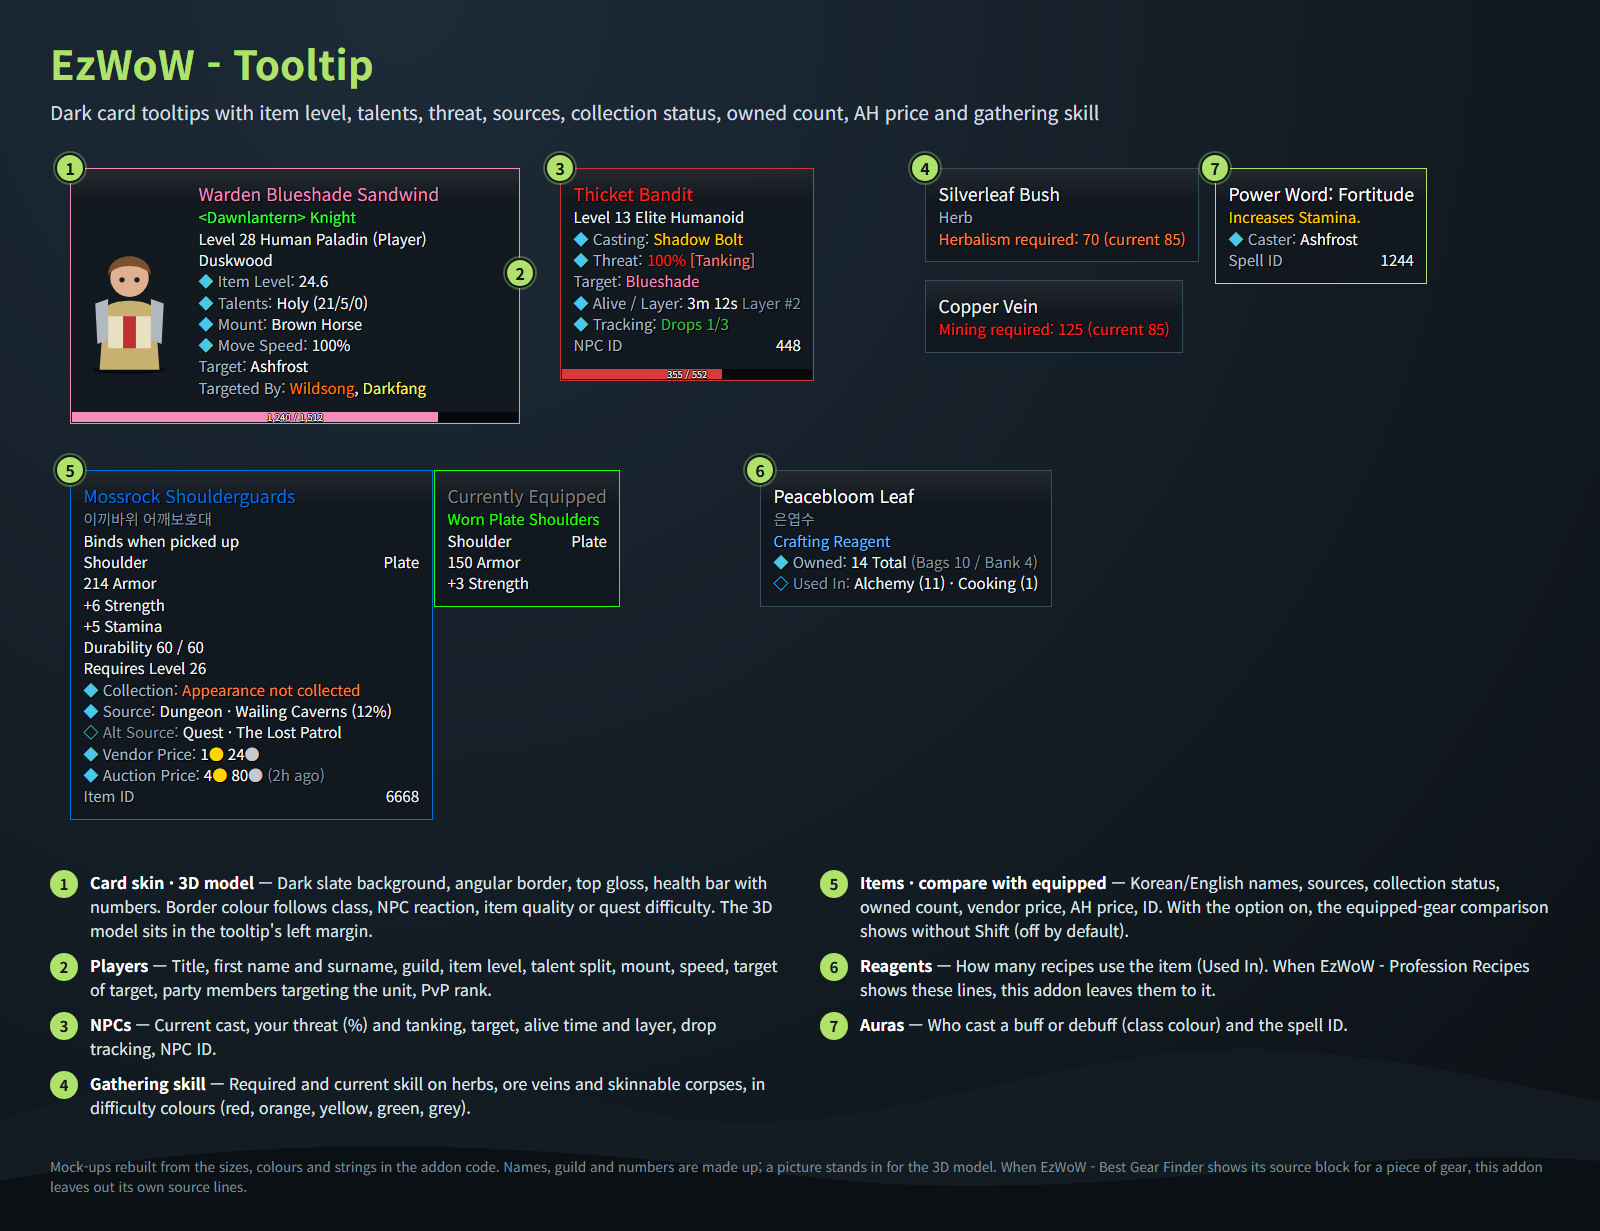
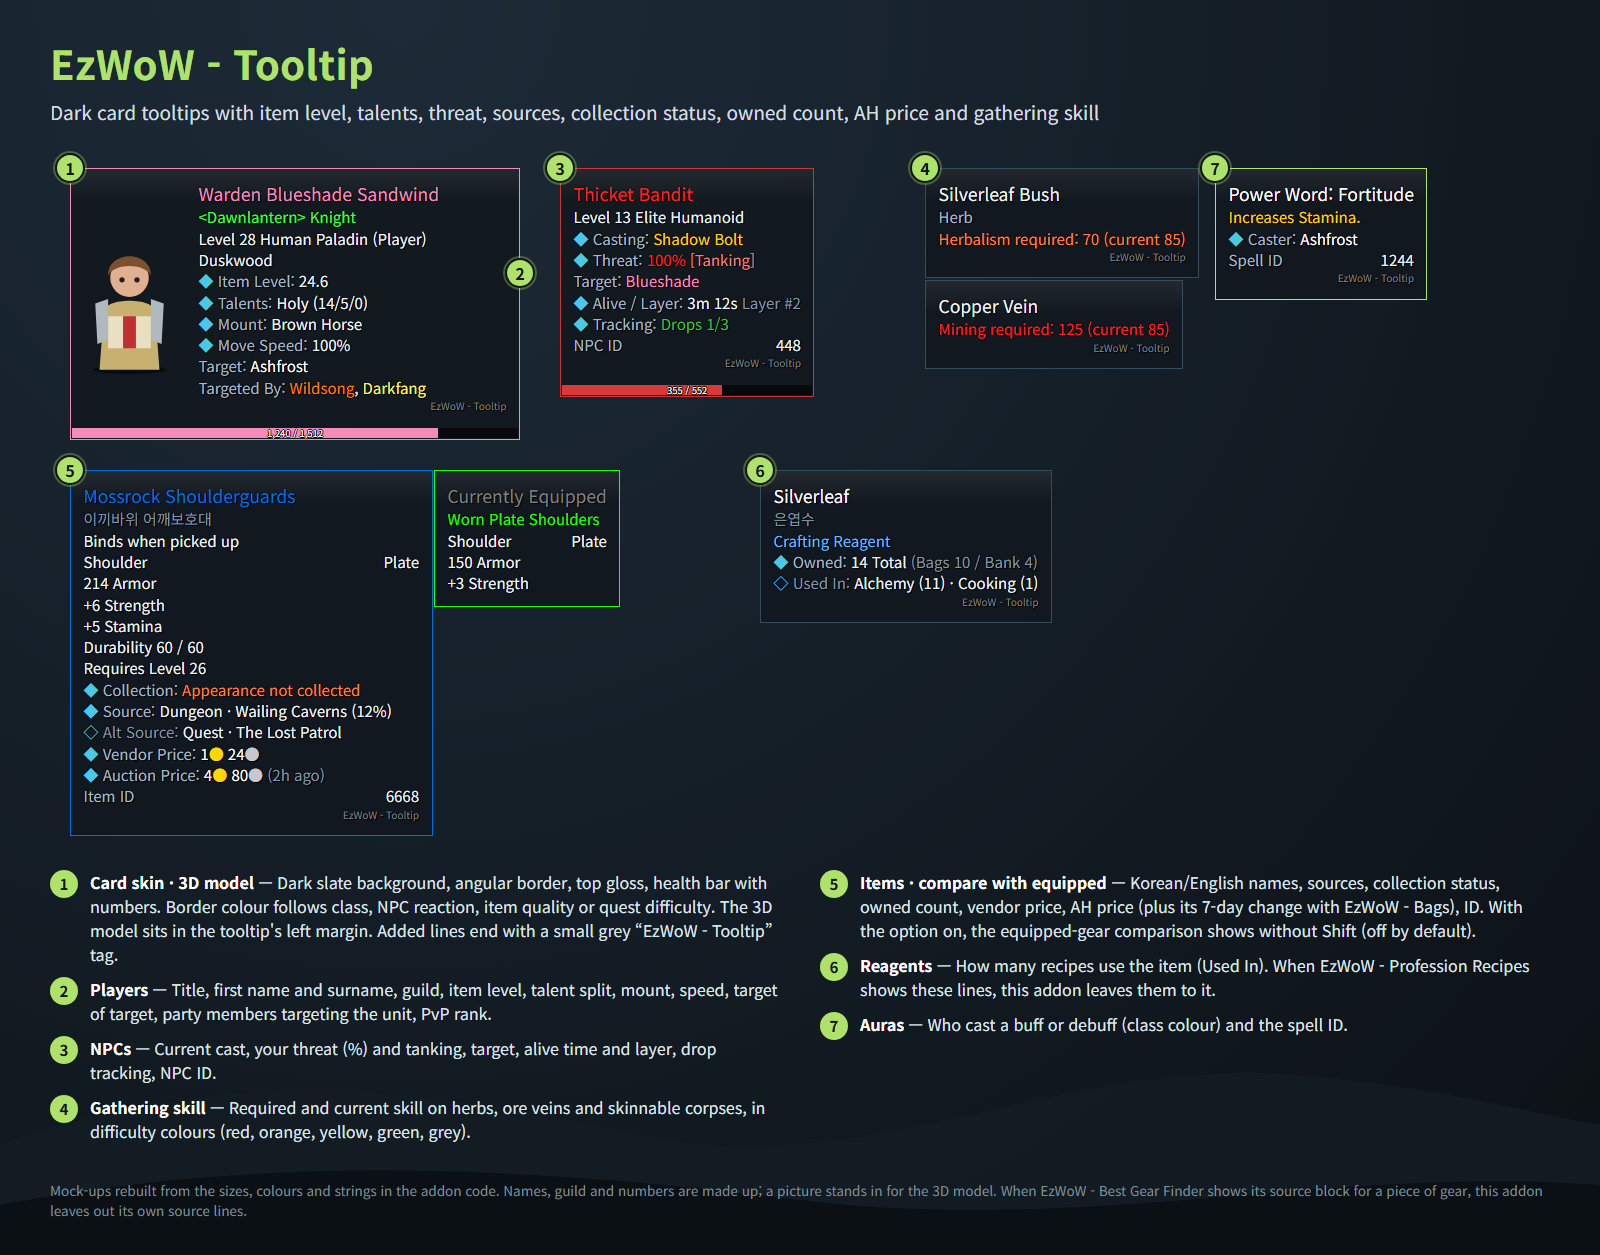
Update README, CurseForge description and example images

diff --git a/scripts/make_readme_images.py b/scripts/make_readme_images.py
@@ -284,7 +284,7 @@ class Window:
 
 
 def tooltip(x, y, lines, border="#344c5b", width=None, pad=10, bg="rgba(18,24,31,.95)", gloss=True, bar=None, font=12,
-            title_size=14, left_pad=0, z=30, extra=""):
+            title_size=14, left_pad=0, z=30, extra="", attrib=True):
     """A tooltip card at page px (x, y). lines: list of str | (left, right) | ("gap",); first line is the title.
     Strings are already HTML. bar: (fraction, colour, label) drawn along the bottom."""
     rows = []
@@ -296,6 +296,8 @@ def tooltip(x, y, lines, border="#344c5b", width=None, pad=10, bg="rgba(18,24,31
             rows.append(f'<div class="row" style="font-size:{px(fs)};line-height:1.42"><span>{ln[0]}</span><span>{ln[1]}</span></div>')
         else:
             rows.append(f'<div style="font-size:{px(fs)};line-height:1.42;white-space:nowrap">{ln}</div>')
+    if attrib:   # small grey right-aligned name line that ends every block of lines the addon adds
+        rows.append(f'<div style="font-size:{px(8)};line-height:1.6;text-align:right;color:#808080">{esc(TITLE)}</div>')
     w = f"width:{px(width)};" if width else ""
     glo = (f'<div class="abs" style="left:0;right:0;top:0;height:{px(26)};background:linear-gradient(to bottom,rgba(255,255,255,.07),'
            f'rgba(255,255,255,0))"></div>') if gloss else ""
@@ -526,7 +528,7 @@ T = {
     "ko": {
         "lead": "다크 카드 스킨 툴팁에 아이템 레벨 · 특성 · 위협 수준 · 획득처 · 수집 상태 · 보유 수량 · 경매장 시세 · 채집 숙련도를 함께 표시",
         "pName": "블루셰이드", "pSurname": "모래바람", "pTitle": "수호자", "pGuild": "&lt;새벽의 등불&gt; 기사단원",
-        "pLine": "28 레벨 인간 성기사 (플레이어)", "zone": "그늘숲", "talent": "신성 (21/5/0)", "mount": "갈색 말",
+        "pLine": "28 레벨 인간 성기사 (플레이어)", "zone": "그늘숲", "talent": "신성 (14/5/0)", "mount": "갈색 말",
         "target": "대상", "tName": "잿빛서리", "by": "들꽃노래", "by2": "검은송곳",
         "npc": "덤불숲 강도", "npcLine": "13 레벨 정예 인간형", "cast": "어둠의 화살", "npcTarget": "블루셰이드",
         "alive": "3분 12초", "npcId": "NPC ID",
@@ -535,15 +537,15 @@ T = {
         "armor": "방어구 214", "stats": ["+6 힘", "+5 체력"], "dur": "내구도 60 / 60", "req": "최소 요구 레벨: 26",
         "src1": "던전 · 통곡의 동굴 (12%)", "src2": "퀘스트 · 사라진 순찰대", "coll": "형상 미수집",
         "eq": "현재 착용 중", "eqItem": "낡은 판금 어깨보호구", "eqArmor": "방어구 150", "eqStat": "+3 힘", "itemId": "아이템 ID",
-        "reag": "은엽수", "reagEn": "Peacebloom Leaf", "reagType": "제작 재료",
+        "reag": "은엽수", "reagEn": "Silverleaf", "reagType": "제작 재료",
         "usedIn": "연금술 (11개) · 요리 (1개)", "aura": "신의 권능: 인내", "auraDesc": "체력이 증가합니다.", "spellId": "주문 ID",
         "auraCaster": "잿빛서리",
         "notes": [
-            ("카드 스킨 · 3D 모델", "다크 슬레이트 배경, 직각 테두리, 위쪽 광택, 아래쪽 체력 바(수치). 테두리 색은 직업 · NPC 우호도 · 아이템 품질 · 퀘스트 난이도. 3D 모델은 툴팁 왼쪽 여백에 표시."),
+            ("카드 스킨 · 3D 모델", "다크 슬레이트 배경, 직각 테두리, 위쪽 광택, 아래쪽 체력 바(수치). 테두리 색은 직업 · NPC 우호도 · 아이템 품질 · 퀘스트 난이도. 3D 모델은 툴팁 왼쪽 여백에 표시. 덧붙인 줄 끝에는 작은 회색 “EzWoW - Tooltip” 표시."),
             ("플레이어", "칭호 · 이름 성 · 길드, 아이템 레벨, 특성 배분, 탈것, 이동 속도, 대상의 대상, 이 대상을 선택한 파티원, PvP 계급."),
             ("NPC", "지금 시전 중인 주문, 내 위협 수준(%)·탱킹, 대상, 생존 시간 · 위상, 드랍 수집 추적, NPC ID."),
             ("채집 숙련도", "약초 · 광맥 · 가죽 벗길 수 있는 시체에 필요한 숙련도와 내 숙련도를 난이도 색(빨강 · 주황 · 노랑 · 초록 · 회색)으로."),
-            ("아이템 · 착용 장비 비교", "한 · 영 이름, 획득처, 수집 상태, 보유 수량, 상점 판매가, 경매장 시세, ID. 옵션을 켜면 Shift 없이 착용 장비 비교 툴팁이 함께 뜹니다(기본 꺼짐)."),
+            ("아이템 · 착용 장비 비교", "한 · 영 이름, 획득처, 수집 상태, 보유 수량, 상점 판매가, 경매장 시세(EzWoW - Bags가 있으면 7일 대비 등락), ID. 옵션을 켜면 Shift 없이 착용 장비 비교 툴팁이 함께 뜹니다(기본 꺼짐)."),
             ("재료", "이 재료를 쓰는 제조법 수(재료 사용처). EzWoW - Profession Recipes가 이 줄을 보여 주면 그쪽에 맡기고 겹쳐 쓰지 않습니다."),
             ("오라", "버프 · 디버프를 건 사람(직업 색)과 주문 ID."),
         ],
@@ -563,7 +565,7 @@ T = {
     "en": {
         "lead": "Dark card tooltips with item level, talents, threat, sources, collection status, owned count, AH price and gathering skill",
         "pName": "Blueshade", "pSurname": "Sandwind", "pTitle": "Warden", "pGuild": "&lt;Dawnlantern&gt; Knight",
-        "pLine": "Level 28 Human Paladin (Player)", "zone": "Duskwood", "talent": "Holy (21/5/0)", "mount": "Brown Horse",
+        "pLine": "Level 28 Human Paladin (Player)", "zone": "Duskwood", "talent": "Holy (14/5/0)", "mount": "Brown Horse",
         "target": "Target", "tName": "Ashfrost", "by": "Wildsong", "by2": "Darkfang",
         "npc": "Thicket Bandit", "npcLine": "Level 13 Elite Humanoid", "cast": "Shadow Bolt", "npcTarget": "Blueshade",
         "alive": "3m 12s", "npcId": "NPC ID",
@@ -572,15 +574,15 @@ T = {
         "armor": "214 Armor", "stats": ["+6 Strength", "+5 Stamina"], "dur": "Durability 60 / 60", "req": "Requires Level 26",
         "src1": "Dungeon · Wailing Caverns (12%)", "src2": "Quest · The Lost Patrol", "coll": "Appearance not collected",
         "eq": "Currently Equipped", "eqItem": "Worn Plate Shoulders", "eqArmor": "150 Armor", "eqStat": "+3 Strength", "itemId": "Item ID",
-        "reag": "Peacebloom Leaf", "reagEn": "은엽수", "reagType": "Crafting Reagent",
+        "reag": "Silverleaf", "reagEn": "은엽수", "reagType": "Crafting Reagent",
         "usedIn": "Alchemy (11) · Cooking (1)", "aura": "Power Word: Fortitude", "auraDesc": "Increases Stamina.", "spellId": "Spell ID",
         "auraCaster": "Ashfrost",
         "notes": [
-            ("Card skin · 3D model", "Dark slate background, angular border, top gloss, health bar with numbers. Border colour follows class, NPC reaction, item quality or quest difficulty. The 3D model sits in the tooltip's left margin."),
+            ("Card skin · 3D model", "Dark slate background, angular border, top gloss, health bar with numbers. Border colour follows class, NPC reaction, item quality or quest difficulty. The 3D model sits in the tooltip's left margin. Added lines end with a small grey “EzWoW - Tooltip” tag."),
             ("Players", "Title, first name and surname, guild, item level, talent split, mount, speed, target of target, party members targeting the unit, PvP rank."),
             ("NPCs", "Current cast, your threat (%) and tanking, target, alive time and layer, drop tracking, NPC ID."),
             ("Gathering skill", "Required and current skill on herbs, ore veins and skinnable corpses, in difficulty colours (red, orange, yellow, green, grey)."),
-            ("Items · compare with equipped", "Korean/English names, sources, collection status, owned count, vendor price, AH price, ID. With the option on, the equipped-gear comparison shows without Shift (off by default)."),
+            ("Items · compare with equipped", "Korean/English names, sources, collection status, owned count, vendor price, AH price (plus its 7-day change with EzWoW - Bags), ID. With the option on, the equipped-gear comparison shows without Shift (off by default)."),
             ("Reagents", "How many recipes use the item (Used In). When EzWoW - Profession Recipes shows these lines, this addon leaves them to it."),
             ("Auras", "Who cast a buff or debuff (class colour) and the spell ID."),
         ],
@@ -693,7 +695,7 @@ def ui_page(lang, ctx):
     elines = [f'<span style="color:#808080">{esc(t["eq"])}</span>', f'<span style="color:{QUALITY[2]}">{esc(t["eqItem"])}</span>',
               (f'<span style="color:{W}">{esc(t["slot"][0])}</span>', f'<span style="color:{W}">{esc(t["slot"][1])}</span>'),
               f'<span style="color:{W}">{esc(t["eqArmor"])}</span>', f'<span style="color:{W}">{esc(t["eqStat"])}</span>']
-    parts.append(tooltip(ix + iw * S + 2, iy, elines, border=QUALITY[2]))
+    parts.append(tooltip(ix + iw * S + 2, iy, elines, border=QUALITY[2], attrib=False))
 
     # 6 reagent with "used in"
     rx, ry = 760, 470

diff --git a/README.md b/README.md
@@ -35,11 +35,11 @@ WoW Forever (`Interface: 16001`) · `/ezt`
 
 | 번호 | 툴팁 | 내용 |
 |---|---|---|
-| ① | 카드 스킨 · 3D 모델 | 다크 슬레이트 배경(`#12181F`), 직각/기본 테두리, 위쪽 광택, 부드럽게 사라지기, 아래쪽 체력 바(수치 표시). 테두리 색은 **플레이어 직업 / NPC 우호도 / 아이템 품질 / 퀘스트 난이도**를 따릅니다. 3D 캐릭터 · 몬스터 모델은 툴팁 왼쪽 여백에 표시합니다. |
+| ① | 카드 스킨 · 3D 모델 | 다크 슬레이트 배경(`#12181F`), 직각/기본 테두리, 위쪽 광택, 부드럽게 사라지기, 아래쪽 체력 바(수치 표시). 테두리 색은 **플레이어 직업 / NPC 우호도 / 아이템 품질 / 퀘스트 난이도**를 따릅니다. 3D 캐릭터 · 몬스터 모델은 툴팁 왼쪽 여백에 표시합니다. 이 애드온이 덧붙인 줄 끝에는 작은 회색 글자로 “EzWoW - Tooltip”이 오른쪽에 붙어, 어느 줄이 이 애드온의 것인지 알 수 있습니다. |
 | ② | 플레이어 | 칭호 · **이름 성** · 길드(계급) · 레벨 · 종족 · 직업 · 지역, **평균 아이템 레벨**, **특성 배분**, 탈것, 이동 속도(%), **대상의 대상**, **이 대상을 선택한 파티원**, PvP 계급. 아이템 레벨과 특성은 조사 후 캐시해 둡니다. |
 | ③ | NPC | 레벨 · 정예 · 종류, **지금 시전 중인 주문**, **내 위협 수준(%) · 탱킹 여부**, 대상, 생존 시간 · 위상, 드랍 수집 추적, NPC ID. |
 | ④ | 채집 숙련도 | 약초 · 광맥 · 가죽을 벗길 수 있는 시체 툴팁에 **필요한 숙련도와 내 숙련도**를 난이도 색(빨강 · 주황 · 노랑 · 초록 · 회색)으로 표시합니다. 배우지 않은 기술은 “미습득”. |
-| ⑤ | 아이템 · 착용 장비 비교 | **한 · 영 이름 병기**, 획득처(던전 · 보스 · 퀘스트 · 상인 · 제작 · 월드 드랍 등, 내장 `Data/SourceDB.lua`), 수집 상태(형상 · 탈것 · 도안 · 퀘스트), **가방/은행 보유 수량**, 최대 겹침(Shift), 상점 판매가, **경매장 저장 시세**(개당/묶음), 아이템 ID. **Shift 없이 착용 장비 비교** 옵션을 켜면 착용 중인 장비 툴팁이 나란히 뜹니다(기본 꺼짐). |
+| ⑤ | 아이템 · 착용 장비 비교 | **한 · 영 이름 병기**, 획득처(던전 · 보스 · 퀘스트 · 상인 · 제작 · 월드 드랍 등, 내장 `Data/SourceDB.lua`), 수집 상태(형상 · 탈것 · 도안 · 퀘스트), **가방/은행 보유 수량**, 최대 겹침(Shift), 상점 판매가, **경매장 저장 시세**(개당/묶음, 수집한 지 얼마나 됐는지), 아이템 ID. **Shift 없이 착용 장비 비교** 옵션을 켜면 착용 중인 장비 툴팁이 나란히 뜹니다(기본 꺼짐). |
 | ⑥ | 재료 | 그 재료를 쓰는 제조법 수(**재료 사용처**)와 보유 수량. |
 | ⑦ | 주문 · 오라 | 버프 · 디버프를 **건 사람(직업 색)**, 주문 ID, 아이콘. 툴팁 안의 지나치게 긴 소수점 숫자도 보기 좋게 정리합니다. |
 
@@ -47,7 +47,7 @@ WoW Forever (`Interface: 16001`) · `/ezt`
 
 - **잡템 자동 판매**: 상점을 열면 회색 아이템을 팔고 번 금액을 채팅창에 알려 줍니다.
 - **자동 수리**: 상점을 열면 모든 장비를 수리하고 비용을 알려 줍니다.
-- **경매장 시세 저장**: 경매장을 열거나 검색할 때 최저 즉시 구매가를 모아 둡니다. 설정창 버튼으로 다시 수집할 수 있습니다.
+- **경매장 시세 저장**: 경매장을 열거나 검색할 때 최저 즉시 구매가를 모아 둡니다. 설정창의 [경매장 시세 갱신] 버튼으로 전체를 다시 수집할 수 있습니다.
 - 상점을 열 때 **Shift**를 누르고 있으면 자동 판매 · 수리를 건너뜁니다.
 
 #### 다른 EzWoW 애드온과 함께 쓰기
@@ -57,6 +57,7 @@ WoW Forever (`Interface: 16001`) · `/ezt`
 | 함께 설치한 애드온 | 그쪽이 맡는 기능 | 이 애드온 |
 |---|---|---|
 | EzWoW - Bags | 잡템 자동 판매 · 자동 수리 | 설정 칸이 회색이 되고 “EzWoW - Bags에서 설정합니다”가 붙습니다. |
+| EzWoW - Bags | 시세 기록 · 등락 | 경매장 시세 줄 끝에 EzWoW - Bags가 기록한 **7일 평균 대비 등락**(▲/▼%)이 붙고, 전체 시세 수집 때 매물 수량을 EzWoW - Bags의 시세 기록에 넘겨 줍니다. |
 | EzWoW - Error Catcher | 이슈 리포터 창 · F6 제보 문구 숨김 | 설정 칸이 회색이 되고 “EzWoW - Error Catcher에서 설정합니다”가 붙습니다. |
 | EzWoW - Best Gear Finder | 장비 툴팁의 획득처 블록(드랍 · 퀘스트 · 상인 · 제작 재료) | 그 장비에서는 이 애드온의 획득처 줄을 생략합니다. |
 | EzWoW - Profession Recipes | 재료 툴팁의 “재료 사용처”, 도안 아이템의 배움/배울 수 있음 표시 | 그 아이템에서는 이 애드온의 해당 줄을 생략합니다. |
@@ -107,7 +108,7 @@ WoW Forever (`Interface: 16001`) · `/ezt`
 ### 알아두면 좋은 점
 
 - 자동 판매 · 자동 수리는 기본으로 켜져 있습니다. 원하지 않으면 설정창에서 끄세요(EzWoW - Bags가 있으면 그쪽 설정을 따릅니다).
-- “Shift 없이 착용 장비 비교”는 이 애드온이 켠 경우에만 끌 때 게임 설정을 되돌립니다.
+- “Shift 없이 착용 장비 비교”는 이 애드온이 켠 경우에만 끌 때 게임 설정을 되돌립니다. 예전에 EzWoW - Best Gear Finder에서 이 기능을 꺼 두었다면 그 선택을 그대로 이어받습니다.
 - 드롭다운 스킨 옵션은 `/reload` 후에 적용됩니다.
 
 ---
@@ -136,11 +137,11 @@ EzWoW - Tooltip turns game tooltips into **clean dark cards** and adds useful in
 
 | No. | Tooltip | Contents |
 |---|---|---|
-| ① | Card skin · 3D model | Dark slate background (`#12181F`), angular/default border, top gloss, optional fade-out and a health bar with numbers. Border colour follows **class / NPC reaction / item quality / quest difficulty**. The 3D model of the unit sits in the tooltip's left margin. |
+| ① | Card skin · 3D model | Dark slate background (`#12181F`), angular/default border, top gloss, optional fade-out and a health bar with numbers. Border colour follows **class / NPC reaction / item quality / quest difficulty**. The 3D model of the unit sits in the tooltip's left margin. The lines this addon adds end with a small grey, right-aligned “EzWoW - Tooltip” tag so you can tell them apart. |
 | ② | Players | Title, **first name and surname**, guild (rank), level, race, class, zone, **average item level**, **talent split**, mount, movement speed (%), **target of target**, **party members targeting the unit**, PvP rank. Item level and talents are inspected and cached. |
 | ③ | NPCs | Level, elite, type, **current cast**, **your threat (%) and tanking**, target, alive time and layer, drop/quest tracking, NPC ID. |
 | ④ | Gathering skill | Herbs, ore veins and skinnable corpses show the **required and your current skill** in difficulty colours (red, orange, yellow, green, grey), or “not learned”. |
-| ⑤ | Items · compare with equipped | **Korean/English dual name**, sources (dungeon, boss, quest, vendor, craft, world drop… from the bundled `Data/SourceDB.lua`), collection status (appearance, mount, recipe, quest), **bag/bank count**, max stack (Shift), vendor price, **saved AH price** (each/stack), item ID. With **Compare with equipped gear without Shift** on, the equipped item's tooltip opens next to it (off by default). |
+| ⑤ | Items · compare with equipped | **Korean/English dual name**, sources (dungeon, boss, quest, vendor, craft, world drop… from the bundled `Data/SourceDB.lua`), collection status (appearance, mount, recipe, quest), **bag/bank count**, max stack (Shift), vendor price, **saved AH price** (each/stack, with its age), item ID. With **Compare with equipped gear without Shift** on, the equipped item's tooltip opens next to it (off by default). |
 | ⑥ | Reagents | How many recipes use the item (**Used In**) and how many you own. |
 | ⑦ | Spells · auras | **Who cast** a buff/debuff (class-coloured), spell ID, icon. Overly long decimals inside tooltips are tidied up. |
 
@@ -148,7 +149,7 @@ EzWoW - Tooltip turns game tooltips into **clean dark cards** and adds useful in
 
 - **Auto-sell junk**: grey items are sold when you open a merchant, with the total in chat.
 - **Auto-repair**: all gear is repaired at merchants and the cost is reported.
-- **AH prices**: lowest buyouts are collected while you open or search the Auction House; the settings button rescans.
+- **AH prices**: lowest buyouts are collected while you open or search the Auction House; the [Update AH Prices] button in settings rescans everything.
 - Hold **Shift** while opening a merchant to skip auto-sell and auto-repair.
 
 #### Working with other EzWoW addons
@@ -158,6 +159,7 @@ So that nothing shows twice, these addons take over the matching feature when th
 | Installed addon | Feature it takes over | This addon |
 |---|---|---|
 | EzWoW - Bags | Auto-sell junk · auto-repair | The check boxes turn grey with “Set in EzWoW - Bags”. |
+| EzWoW - Bags | Price history · trend | The AH price line gets the **change against the 7-day average** (▲/▼%) recorded by EzWoW - Bags, and a full price scan hands the listed quantities to its price history. |
 | EzWoW - Error Catcher | Hiding the Issue Reporter and the F6 bug hint | The check box turns grey with “Set in EzWoW - Error Catcher”. |
 | EzWoW - Best Gear Finder | The source block on gear tooltips (drops, quests, vendors, crafting reagents) | Leaves out its own source lines for that item. |
 | EzWoW - Profession Recipes | “Used In” on reagents, learned / can-learn status on recipe items | Leaves out its own lines for that item. |
@@ -208,7 +210,7 @@ So that nothing shows twice, these addons take over the matching feature when th
 ### Tips
 
 - Auto-sell and auto-repair are on by default; turn them off in settings if you do not want them (with EzWoW - Bags installed, its settings apply).
-- Turning “Compare with equipped gear without Shift” off restores the game setting only if this addon turned it on.
+- Turning “Compare with equipped gear without Shift” off restores the game setting only if this addon turned it on. If you had turned this off in EzWoW - Best Gear Finder before, that choice is kept.
 - The dropdown skin option takes effect after `/reload`.
 
 ---
